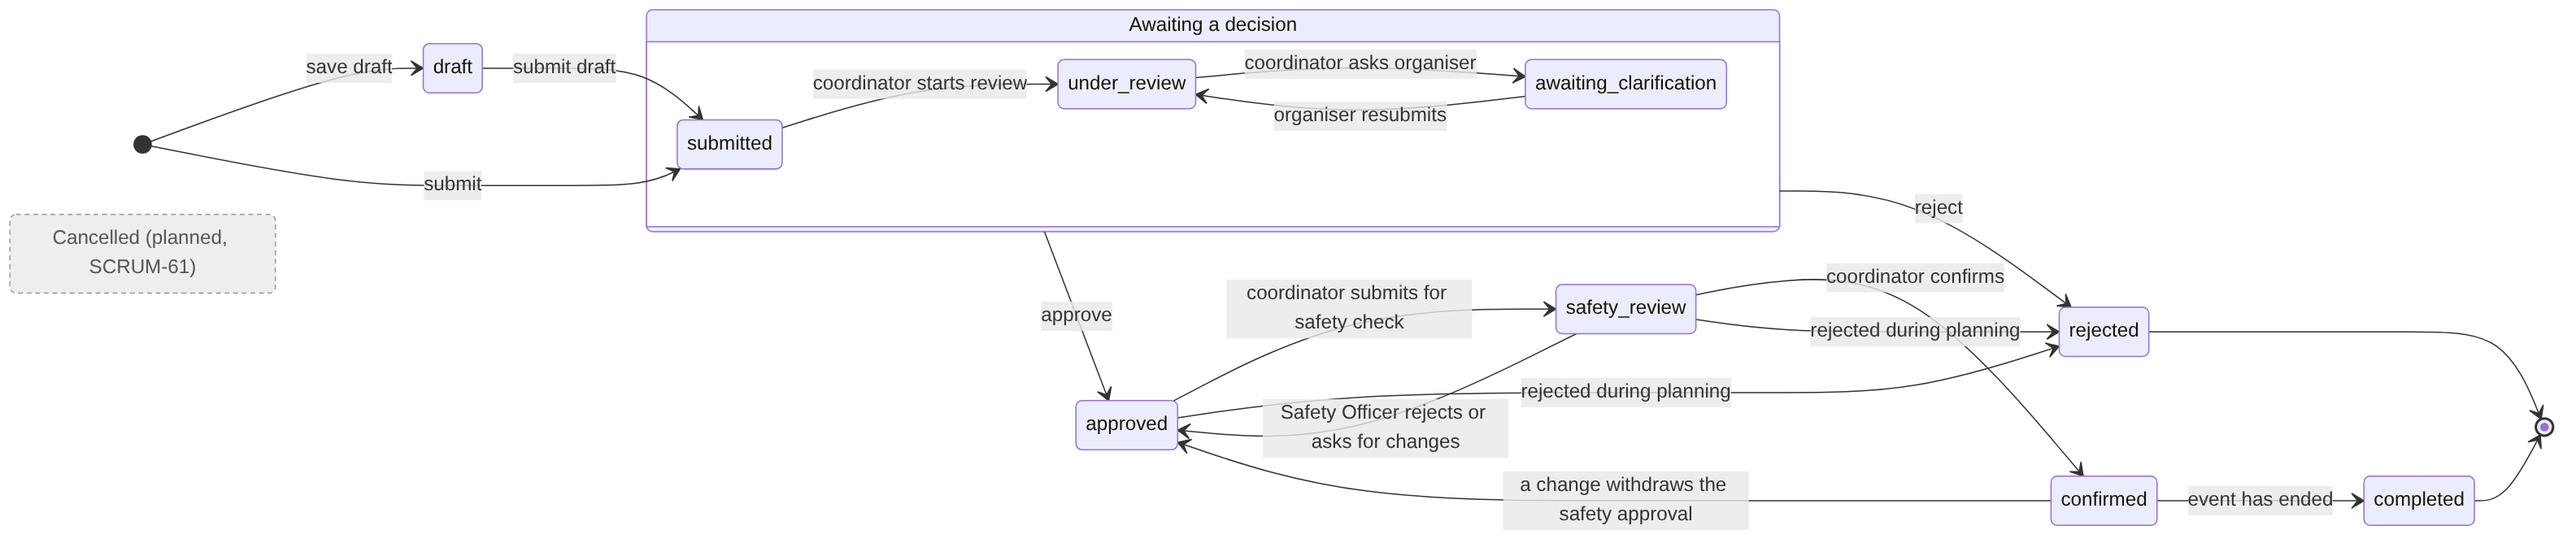
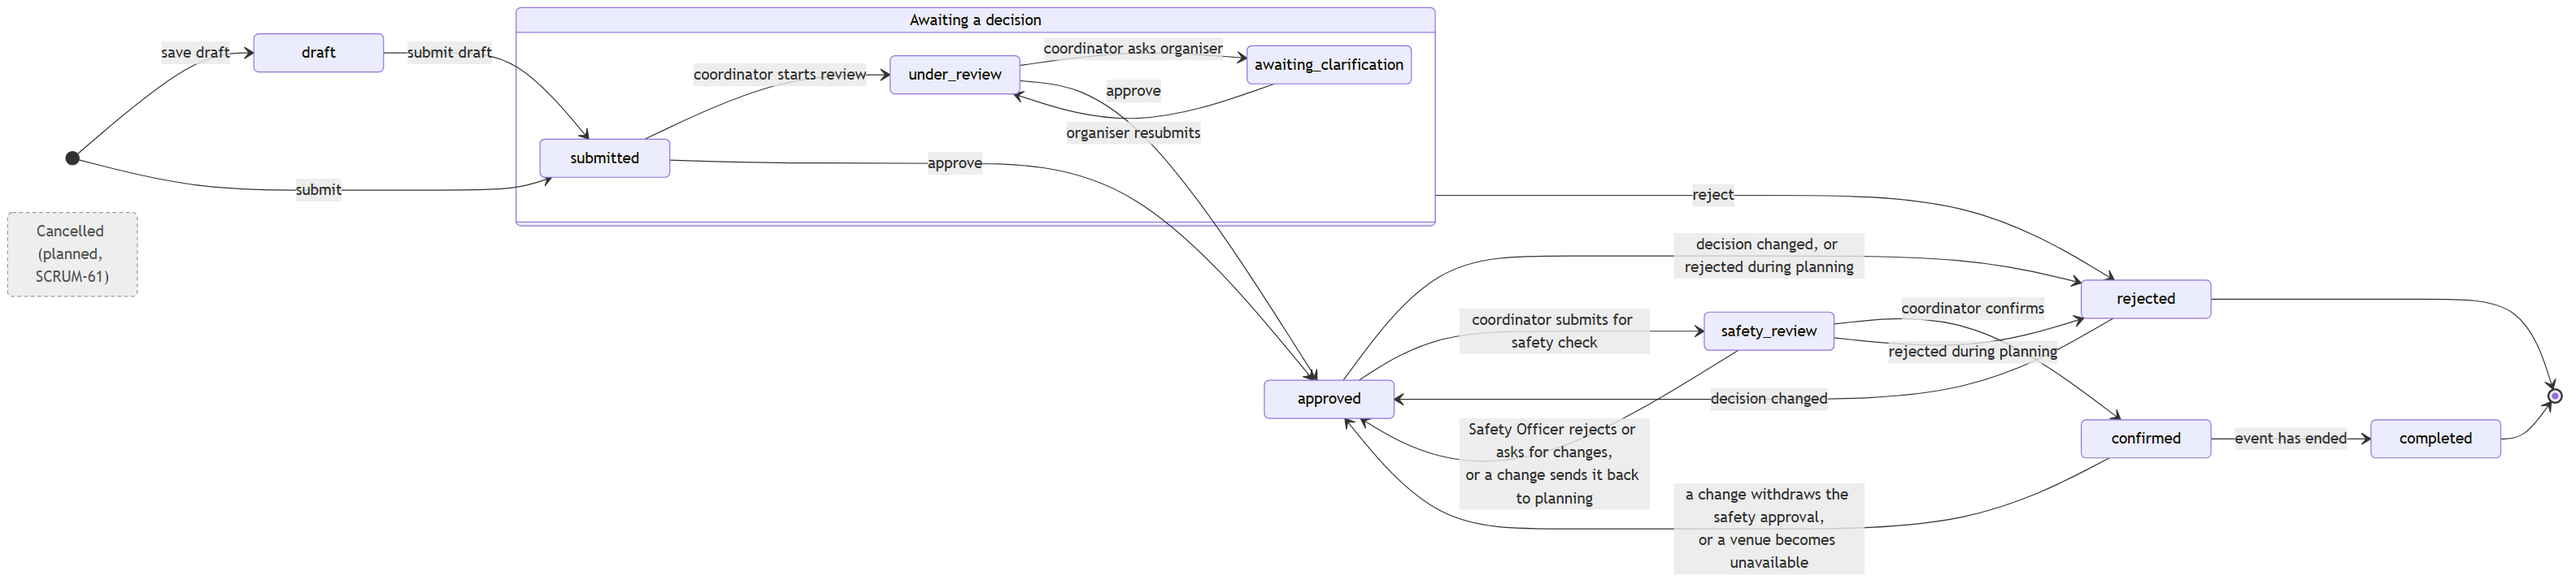
docs(SCRUM-78): draw every event request transition the services allow
The event request state diagram drew an approval from awaiting
clarification, which decide_event_request refuses until the organiser
answers (ClarificationOutstandingError, ADR-0029), and left out transitions
main makes:

- approved to rejected and back when the decision is changed, allowed while
  the event has no equipment request or venue arrangement
  (DECIDED_STATUSES, _has_arrangements, ADR-0028), but never after a
  rejection during planning (ADR-0106);
- safety_review to approved after a significant change that unsettles an
  arrangement (_return_to_approved, ADR-0107) or withdraws the safety
  approval (withdraw_safety_approval, ADR-0087);
- confirmed to approved when a venue becomes unavailable
  (record_alternative_venue_needed, SCRUM-92 AC3, ADR-0053).

Approve now comes from submitted and under_review only, and the notes say
why. PNG re-rendered from the Mermaid source.

diff --git a/docs/architecture/06-uml-state-diagrams.md b/docs/architecture/06-uml-state-diagrams.md
@@ -19,14 +19,16 @@ stateDiagram-v2
     awaiting_clarification --> under_review : organiser resubmits
   }
 
-  awaiting --> approved : approve
+  submitted --> approved : approve
+  under_review --> approved : approve
   awaiting --> rejected : reject
 
+  approved --> rejected : decision changed, or rejected during planning
+  rejected --> approved : decision changed
   approved --> safety_review : coordinator submits for safety check
-  safety_review --> approved : Safety Officer rejects or asks for changes
+  safety_review --> approved : Safety Officer rejects or asks for changes,<br/>or a change sends it back to planning
   safety_review --> confirmed : coordinator confirms
-  confirmed --> approved : a change withdraws the safety approval
-  approved --> rejected : rejected during planning
+  confirmed --> approved : a change withdraws the safety approval,<br/>or a venue becomes unavailable
   safety_review --> rejected : rejected during planning
   confirmed --> completed : event has ended
 
@@ -39,8 +41,13 @@ stateDiagram-v2
   class cancelled planned
 ```
 
-- A request can be decided only while it is submitted, under review or awaiting clarification, and the
-  decision can still be re-made while it is approved or rejected (ADR-0028).
+- A request can be decided only while it is submitted, under review or awaiting clarification. One awaiting
+  clarification can be rejected but not approved until the organiser answers (ADR-0029).
+- An approved or rejected request can be decided again, with a reason, until the event has an equipment request
+  or a venue arrangement (ADR-0028). A rejection during planning is final (ADR-0106).
+- Back to approved from safety review or confirmed: a Safety Officer's rejection or request for changes
+  (ADR-0047), a change that withdraws the safety approval (ADR-0087) or leaves an arrangement unsettled
+  (ADR-0107), and, from confirmed only, a venue becoming unavailable (SCRUM-92, ADR-0053).
 - Confirming needs the Safety Officer's approval, every active venue arrangement approved and every equipment
   line given an outcome (ADR-0051).
 - `cancelled` exists in the enum and counts as a closed status, but nothing moves an event there yet. That is
